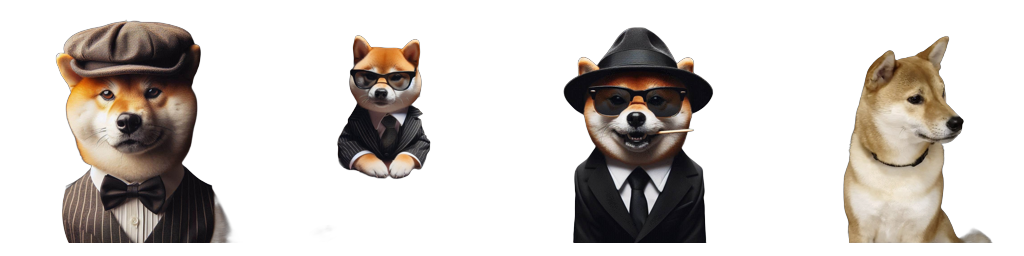
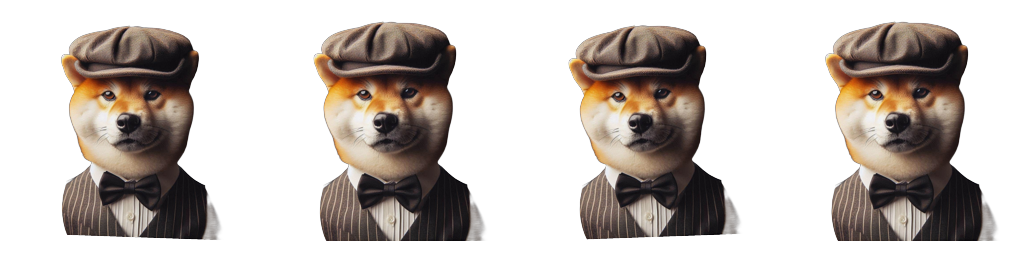
Refactor make_sprite.py to use a single source image

diff --git a/scripts/make_sprite.py b/scripts/make_sprite.py
@@ -1,18 +1,15 @@
 #!/usr/bin/env python3
 import io
 import os
-from typing import List
+import argparse
+from typing import List, Tuple
 
 from PIL import Image, ImageOps
 from rembg import remove
 
 WORKSPACE = "/workspace"
-SRC_IMAGES = [
-    f"{WORKSPACE}/public/images/dog1.jpg",
-    f"{WORKSPACE}/public/images/dog2.jpg",
-    f"{WORKSPACE}/public/images/dog3.jpg",
-    f"{WORKSPACE}/public/images/dog4.jpg",
-]
+# Default single source image (can be overridden via CLI)
+SOURCE_IMAGE = f"{WORKSPACE}/public/images/dog1.jpg"
 FRAMES_DIR = f"{WORKSPACE}/public/images/dog_run_frames"
 SPRITE_SHEET_PATH = f"{WORKSPACE}/public/images/dog_run_4x.png"
 FRAME_SIZE = 256
@@ -48,24 +45,45 @@ def make_square_frame(img: Image.Image, size: int, scale: float) -> Image.Image:
     return canvas
 
 
-def process_sources(sources: List[str]) -> List[str]:
+def transform(img: Image.Image, angle: float = 0.0, translate: Tuple[int, int] = (0, 0), scale: float = 1.0) -> Image.Image:
+    """Apply simple rotation, scaling and translation to an RGBA image."""
+    if scale != 1.0:
+        new_w = max(1, int(img.width * scale))
+        new_h = max(1, int(img.height * scale))
+        img = img.resize((new_w, new_h), resample=Image.BICUBIC)
+    if angle != 0:
+        img = img.rotate(angle, resample=Image.BICUBIC, expand=True)
+    # paste onto a minimally large transparent canvas to apply translation later
+    canvas = Image.new("RGBA", (img.width + abs(translate[0]) + 8, img.height + abs(translate[1]) + 8), (0, 0, 0, 0))
+    off_x = max(4, 4 + translate[0])
+    off_y = max(4, 4 + translate[1])
+    canvas.paste(img, (off_x, off_y), img)
+    return canvas
+
+
+def process_single_source(src: str) -> List[str]:
+    """Create 4 animation frames from a single source by subtle transforms."""
     ensure_dir(FRAMES_DIR)
+    if not os.path.exists(src):
+        raise SystemExit(f"Source image not found: {src}")
+    log(f"remove background: {os.path.basename(src)}")
+    rgba = remove_background_to_rgba(src)
+
+    # Create 4 variants to simulate a light running bounce cycle
+    variants: List[Image.Image] = [
+        transform(rgba, angle=-2, translate=(-6, 2), scale=0.98),
+        transform(rgba, angle=0, translate=(6, -4), scale=1.00),
+        transform(rgba, angle=2, translate=(-4, -2), scale=0.98),
+        transform(rgba, angle=0, translate=(4, -4), scale=1.00),
+    ]
+
     frame_paths: List[str] = []
-    frame_index = 1
-    for src in sources:
-        if not os.path.exists(src):
-            log(f"skip missing: {src}")
-            continue
-        log(f"remove background: {os.path.basename(src)}")
-        rgba = remove_background_to_rgba(src)
-        frame = make_square_frame(rgba, FRAME_SIZE, CONTENT_SCALE)
-        out_path = os.path.join(FRAMES_DIR, f"frame{frame_index}.png")
+    for i, variant in enumerate(variants, start=1):
+        frame = make_square_frame(variant, FRAME_SIZE, CONTENT_SCALE)
+        out_path = os.path.join(FRAMES_DIR, f"frame{i}.png")
         frame.save(out_path, "PNG")
         frame_paths.append(out_path)
         log(f"wrote {out_path}")
-        frame_index += 1
-        if frame_index > 4:
-            break
     return frame_paths
 
 
@@ -81,10 +99,24 @@ def compose_sprite(frames: List[str], output_path: str, size: int) -> None:
     log(f"sprite sheet saved: {output_path}")
 
 
+def parse_args() -> argparse.Namespace:
+    parser = argparse.ArgumentParser(description="Create a 4-frame running sprite from a single image")
+    parser.add_argument("--src", default=SOURCE_IMAGE, help="Path to source image (single)")
+    parser.add_argument("--size", type=int, default=FRAME_SIZE, help="Frame size (square)")
+    parser.add_argument("--out", default=SPRITE_SHEET_PATH, help="Output sprite sheet path")
+    parser.add_argument("--frames-dir", default=FRAMES_DIR, help="Directory to write individual frames")
+    parser.add_argument("--scale", type=float, default=CONTENT_SCALE, help="Content scale within each frame (0..1)")
+    return parser.parse_args()
+
+
 def main() -> None:
-    frames = process_sources(SRC_IMAGES)
-    if len(frames) < 4:
-        log("warning: fewer than 4 frames found; composing with available frames")
+    args = parse_args()
+    global FRAME_SIZE, SPRITE_SHEET_PATH, FRAMES_DIR, CONTENT_SCALE
+    FRAME_SIZE = args.size
+    SPRITE_SHEET_PATH = args.out
+    FRAMES_DIR = args.frames_dir
+    CONTENT_SCALE = args.scale
+    frames = process_single_source(args.src)
     compose_sprite(frames, SPRITE_SHEET_PATH, FRAME_SIZE)
 
 
